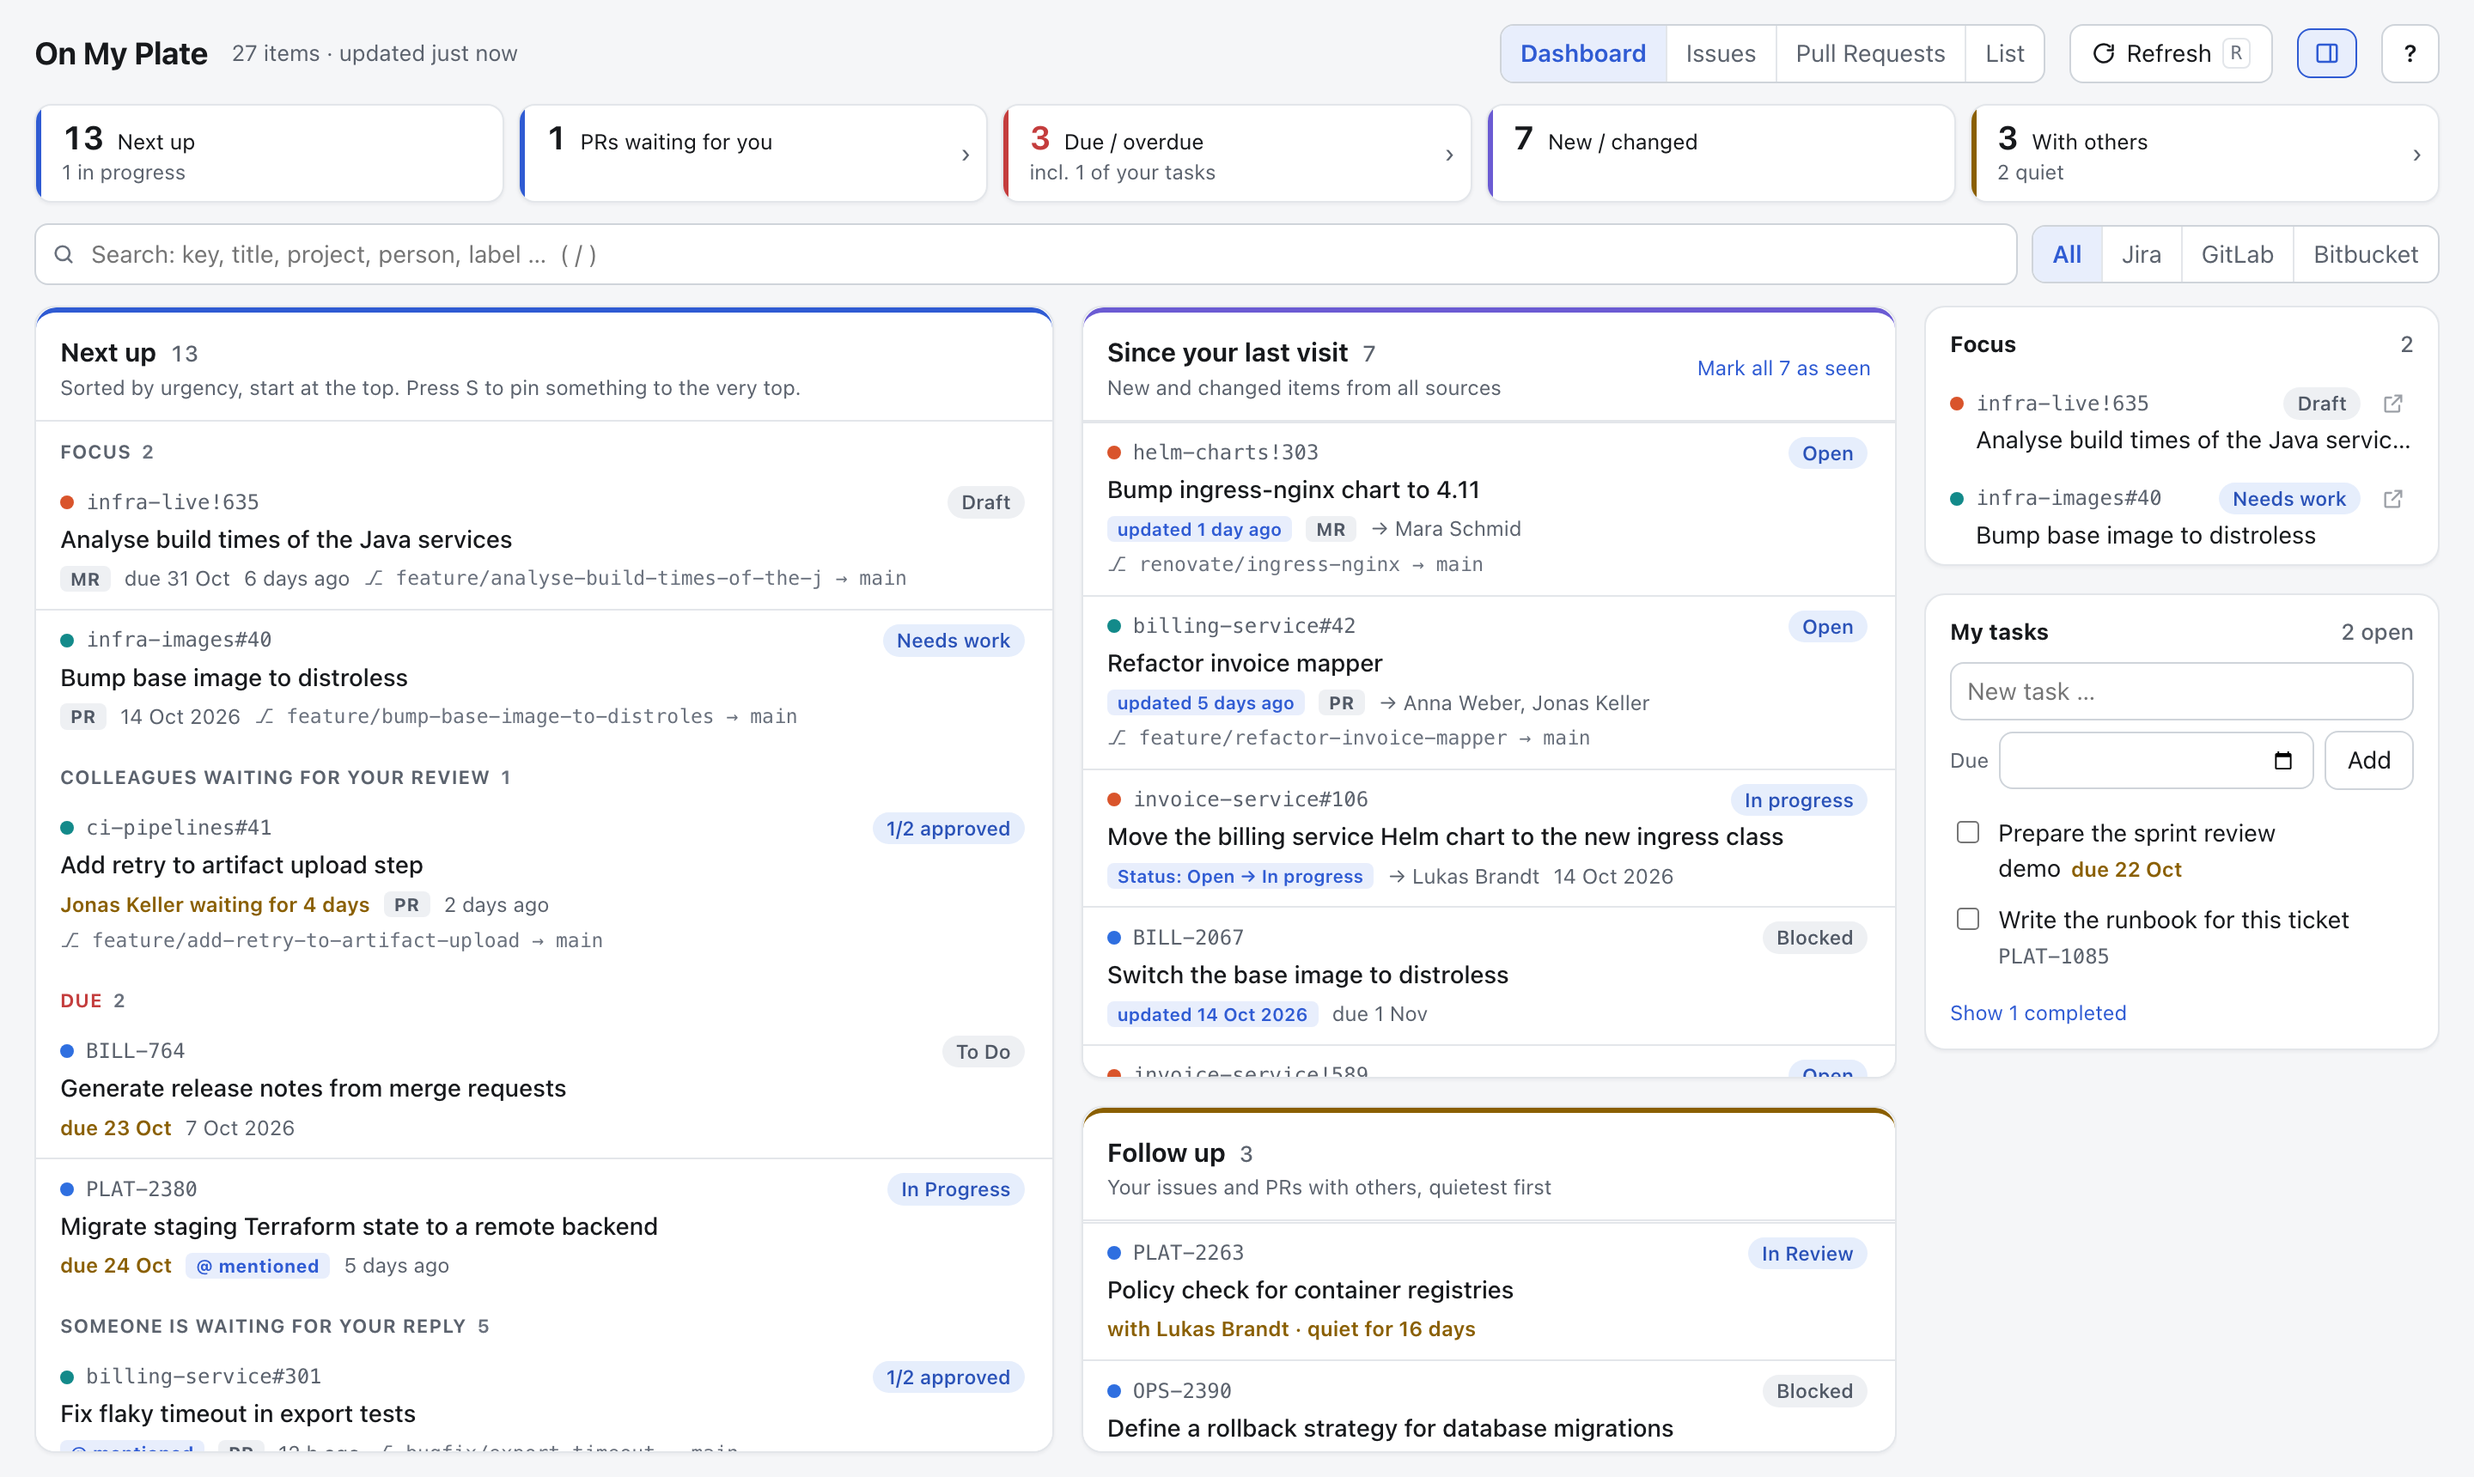
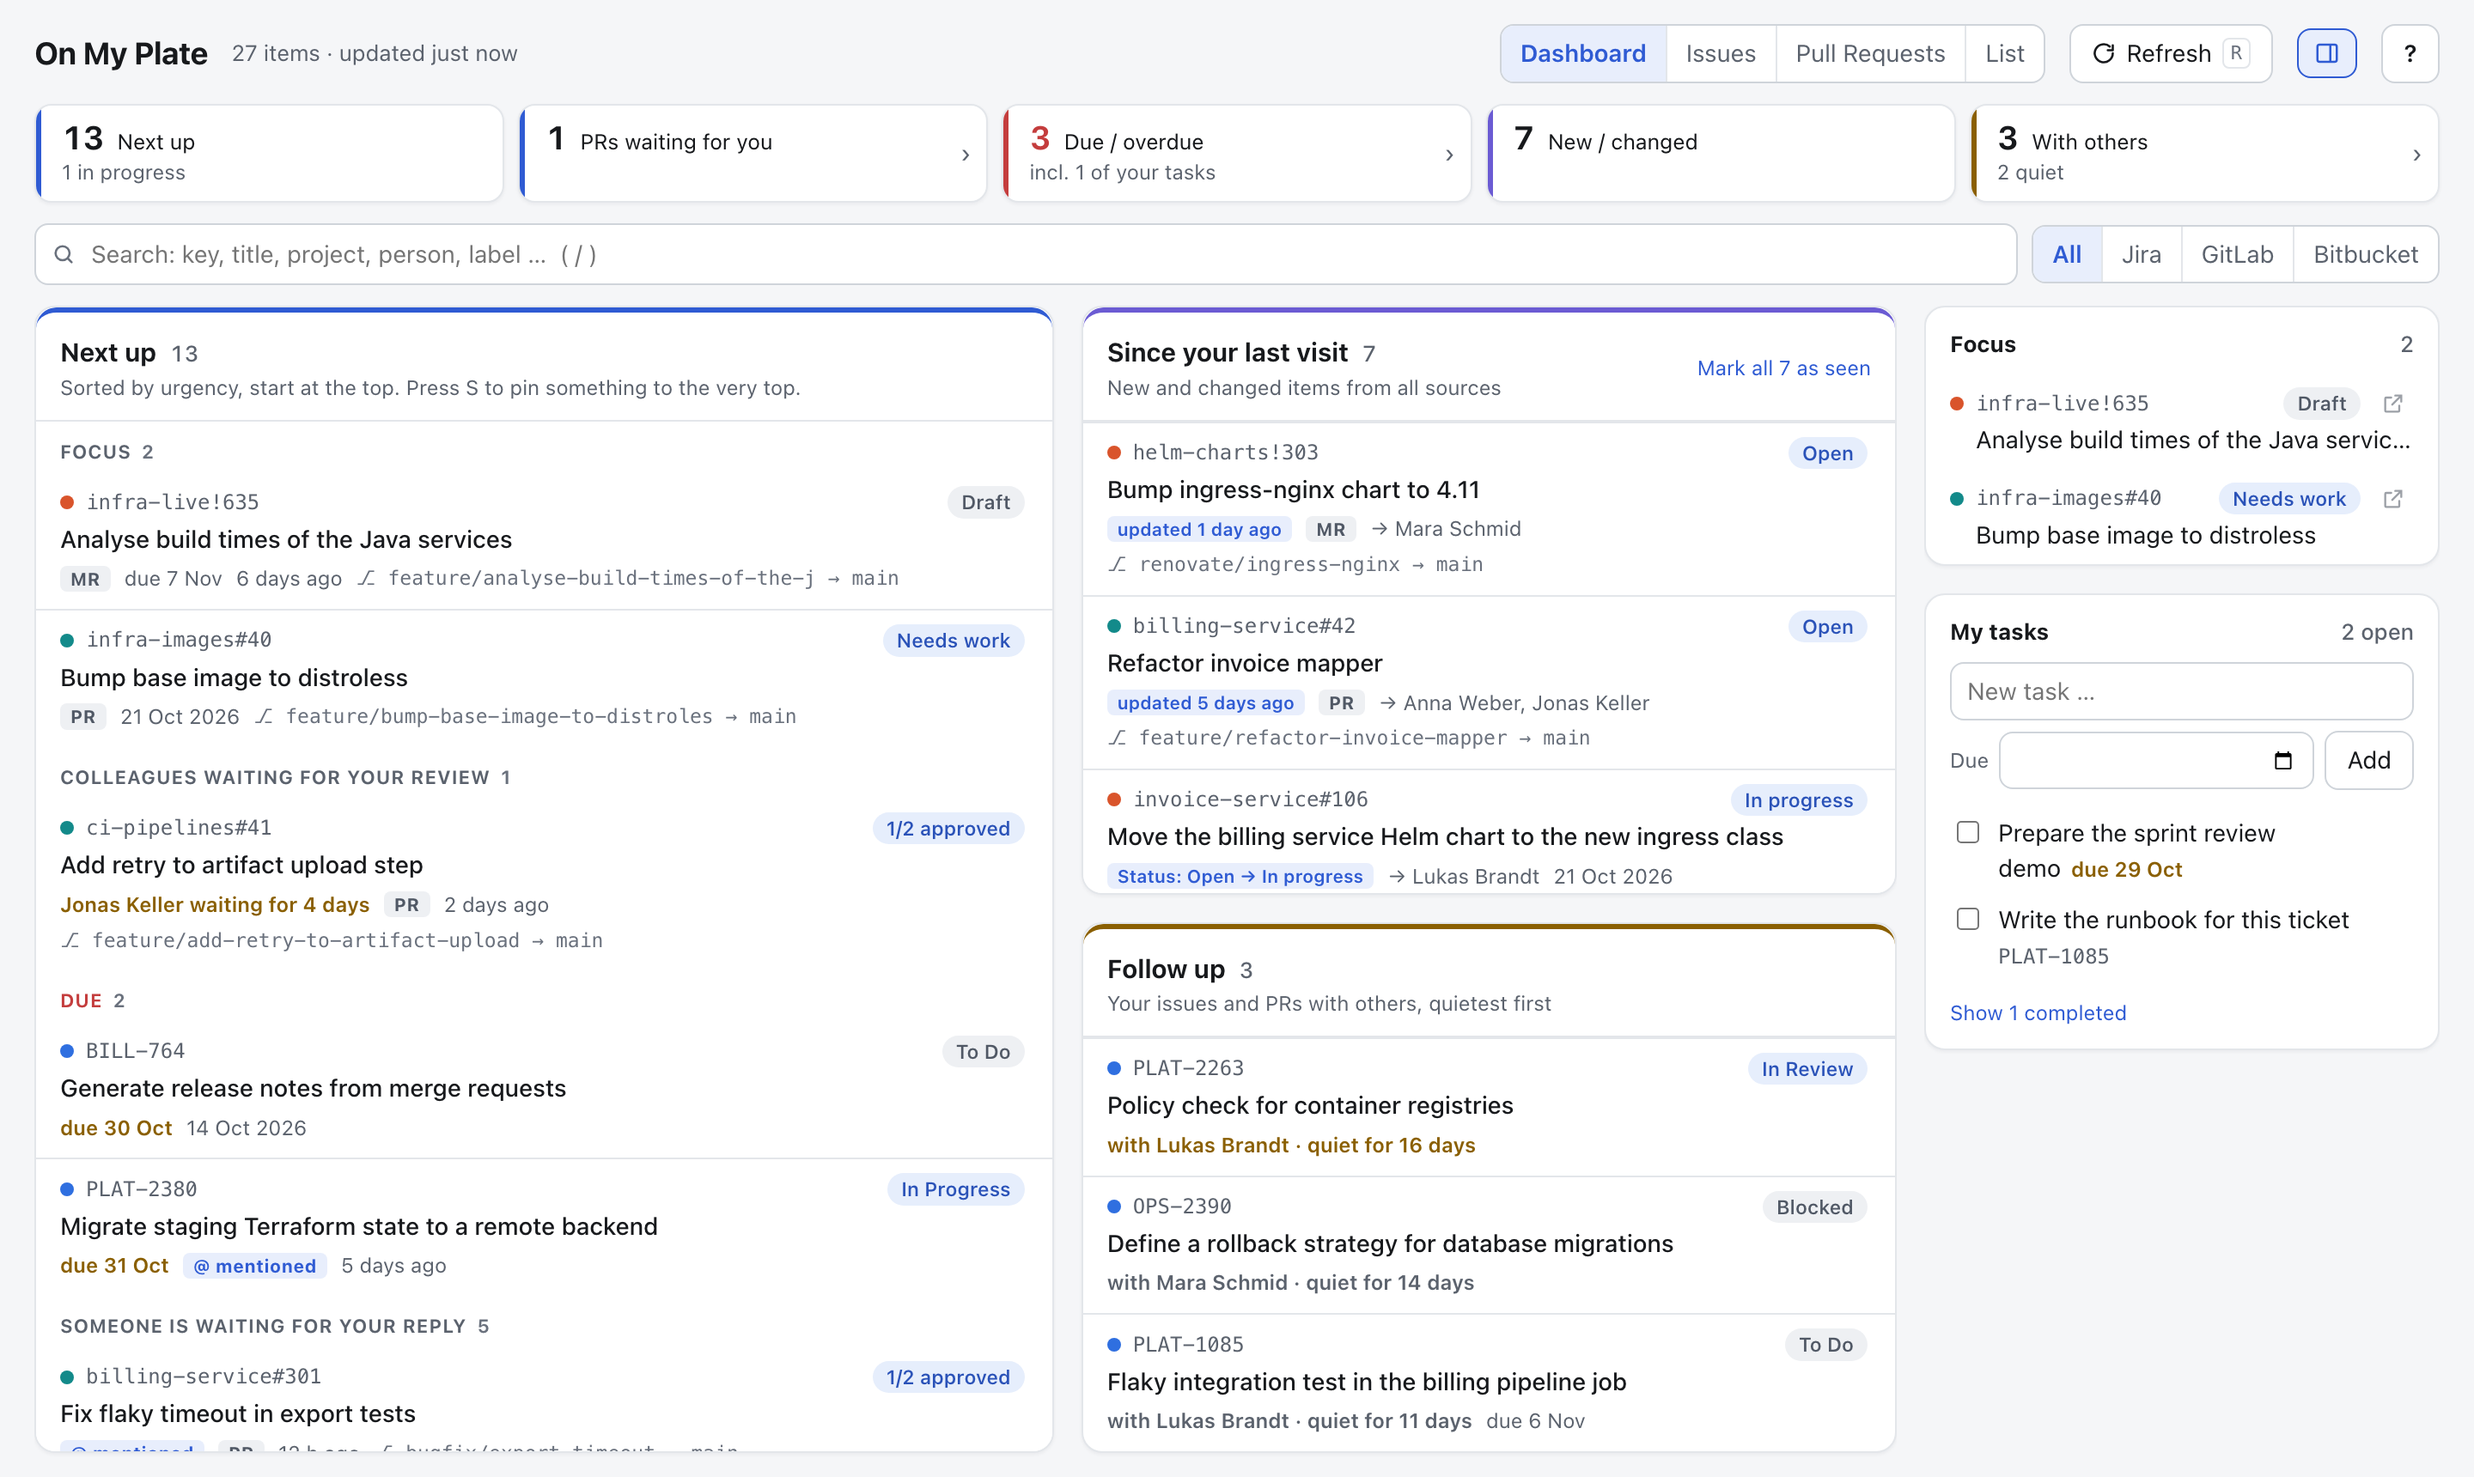
fix(ui): stop a long follow-up list from squeezing recent changes
The two stacked overview cards shrank in proportion to their content, so
a long "Follow up" list left "Since your last visit" with little more
than its header. Give both cards equal halves; a card shorter than its
half keeps its height and leaves the rest to the other.

diff --git a/onmyplate.py b/onmyplate.py
@@ -3736,7 +3736,9 @@ kbd { font-family: var(--mono); font-size: 11.5px; border: 1px solid var(--borde
   .overview { height: 100%; }
   .overview > .col { max-height: 100%; }
   .ostack { height: 100%; min-height: 0; }
-  .ostack > .col { flex: 0 1 auto; min-height: 0; overflow: auto; }
+  /* Equal halves, so a long list cannot squeeze the other card to its header.
+     A card shorter than its half keeps its height and leaves the rest to the other. */
+  .ostack > .col { flex: 1 1 0; min-height: 0; max-height: max-content; overflow: auto; }
   .view-list #list > .card { max-height: 100%; overflow: auto; overscroll-behavior: contain; }
   aside { position: static; overflow: auto; min-height: 0; align-content: start; padding-bottom: 14px; }
   .foot { margin-top: 0; padding: 0 2px; }

diff --git a/CHANGELOG.md b/CHANGELOG.md
@@ -4,6 +4,9 @@ All notable changes are documented here. The format follows [Keep a Changelog](h
 
 ## [Unreleased]
 
+### Fixed
+- On the dashboard, a long "Follow up" list no longer squeezes "Since your last visit" down to its header. Both cards share the height evenly; a short one gives its unused space to the other.
+
 ## [0.2.0] – 2026-10-28
 
 ### Added
